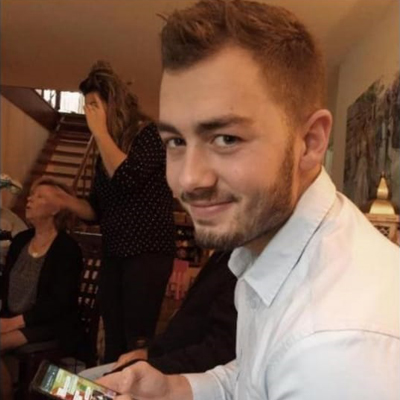
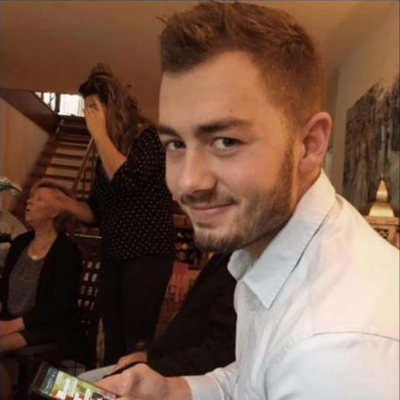
Profile Picture Changed

diff --git a/index.html b/index.html
@@ -15,7 +15,7 @@
     <main>
         <section class="content">
             <div  class="profilePicture">
-                <img src="images/profile4.jpg" alt="Profile Picture">
+                <img src="images/profile2.jpg" alt="Profile Picture">
             </div>
 
             <div class="profileName">
